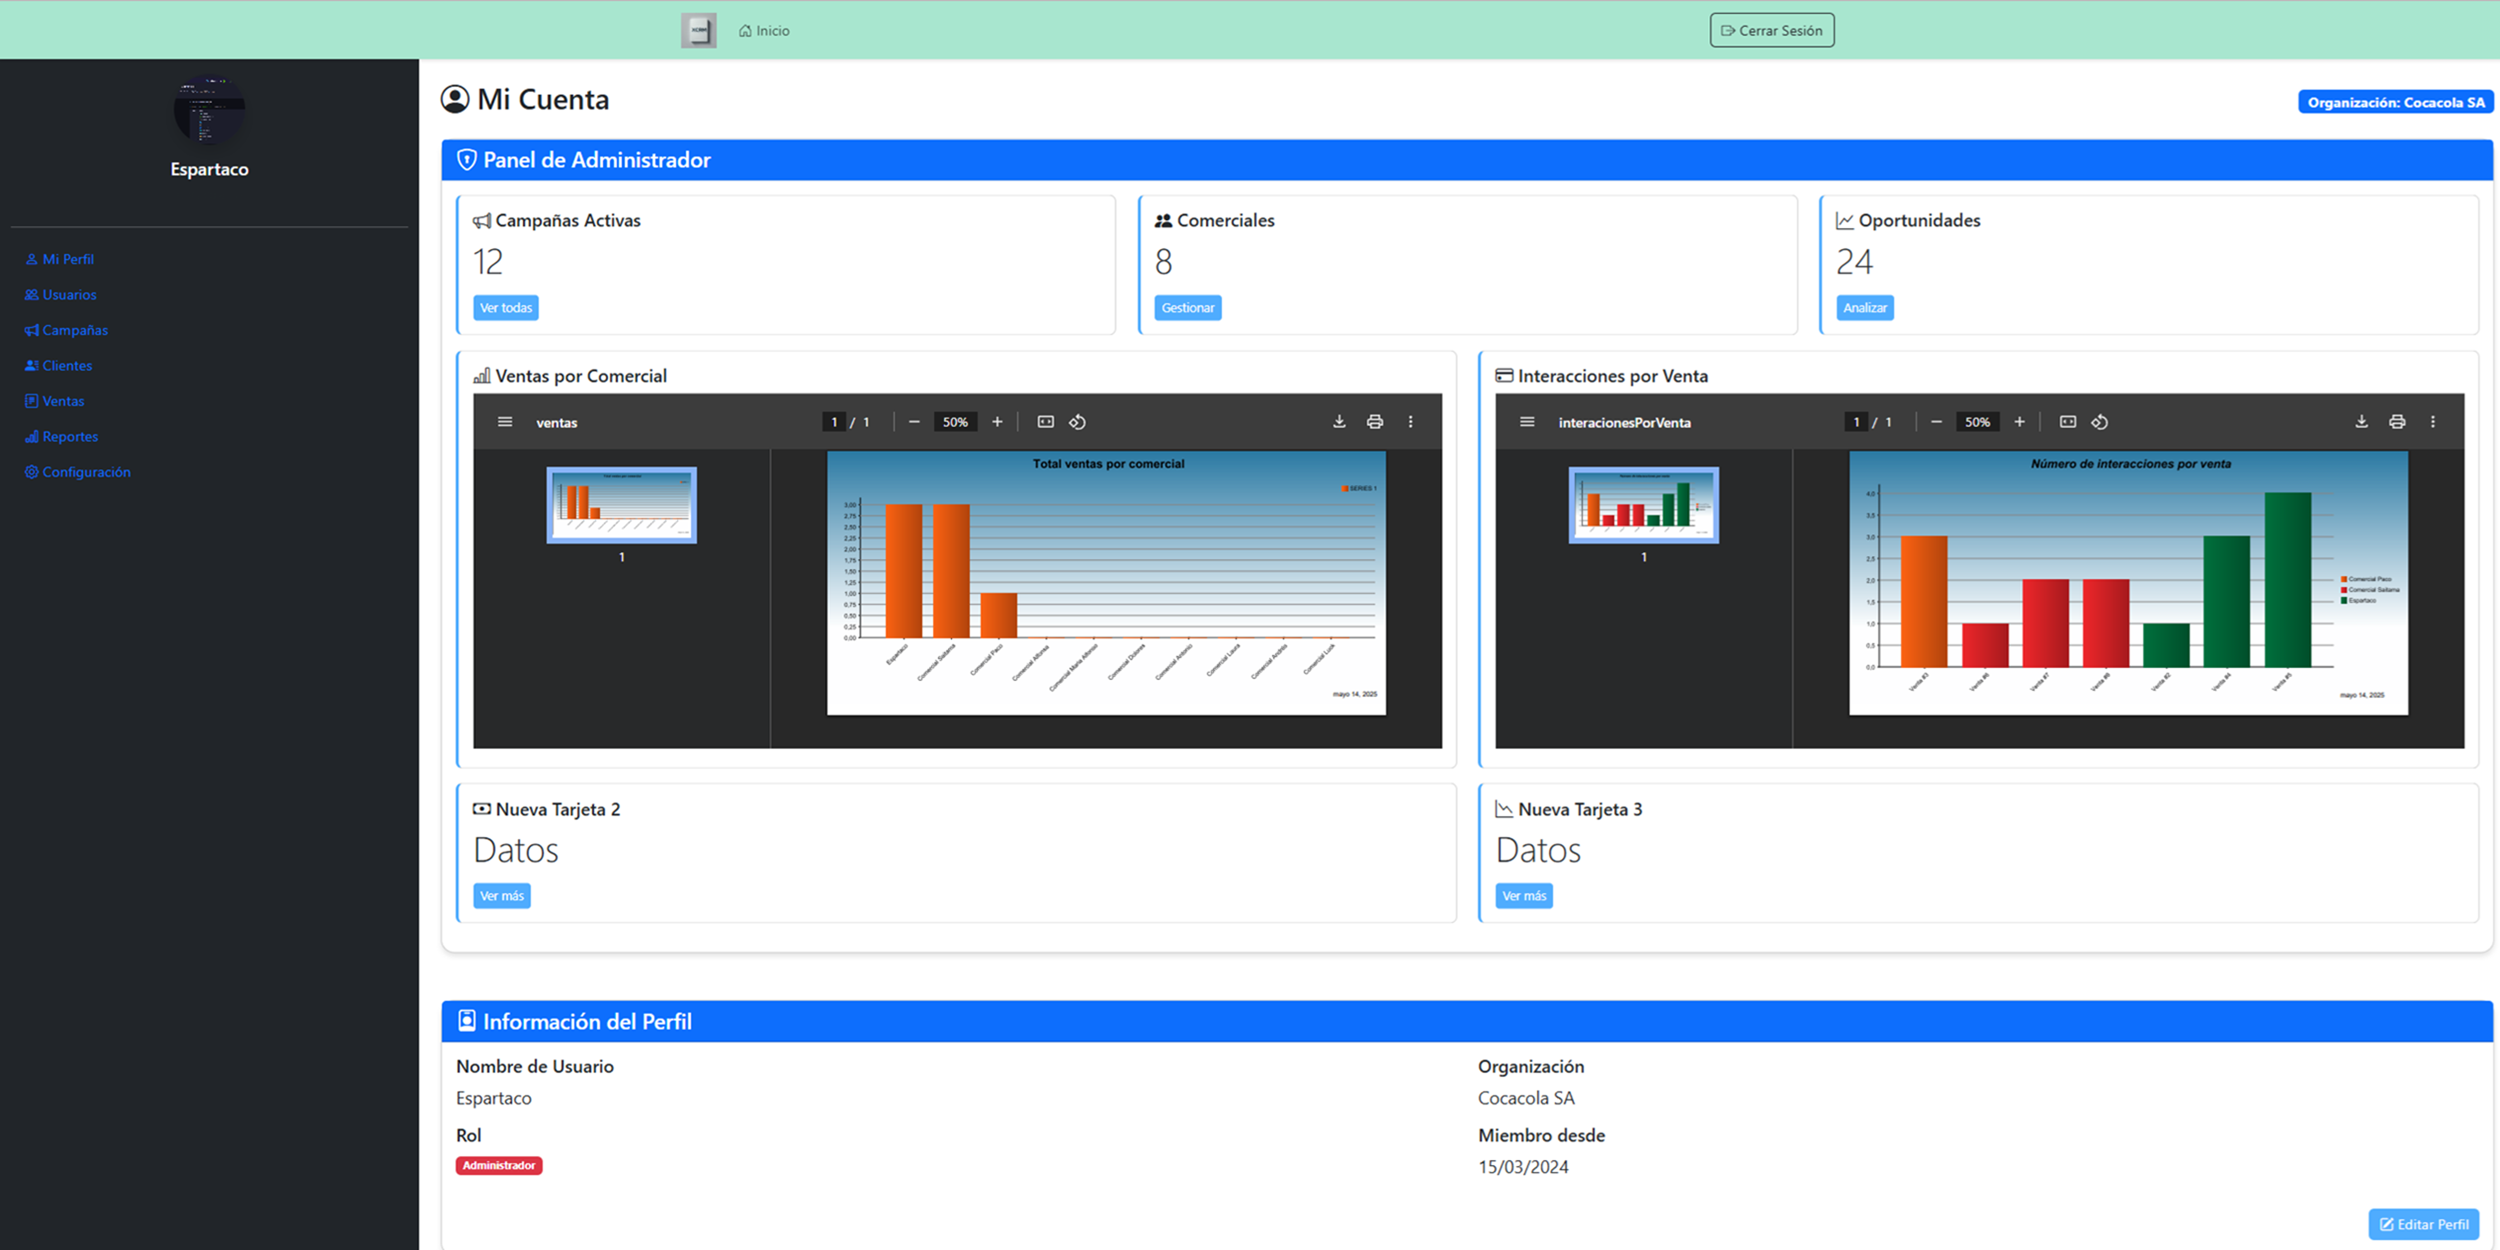
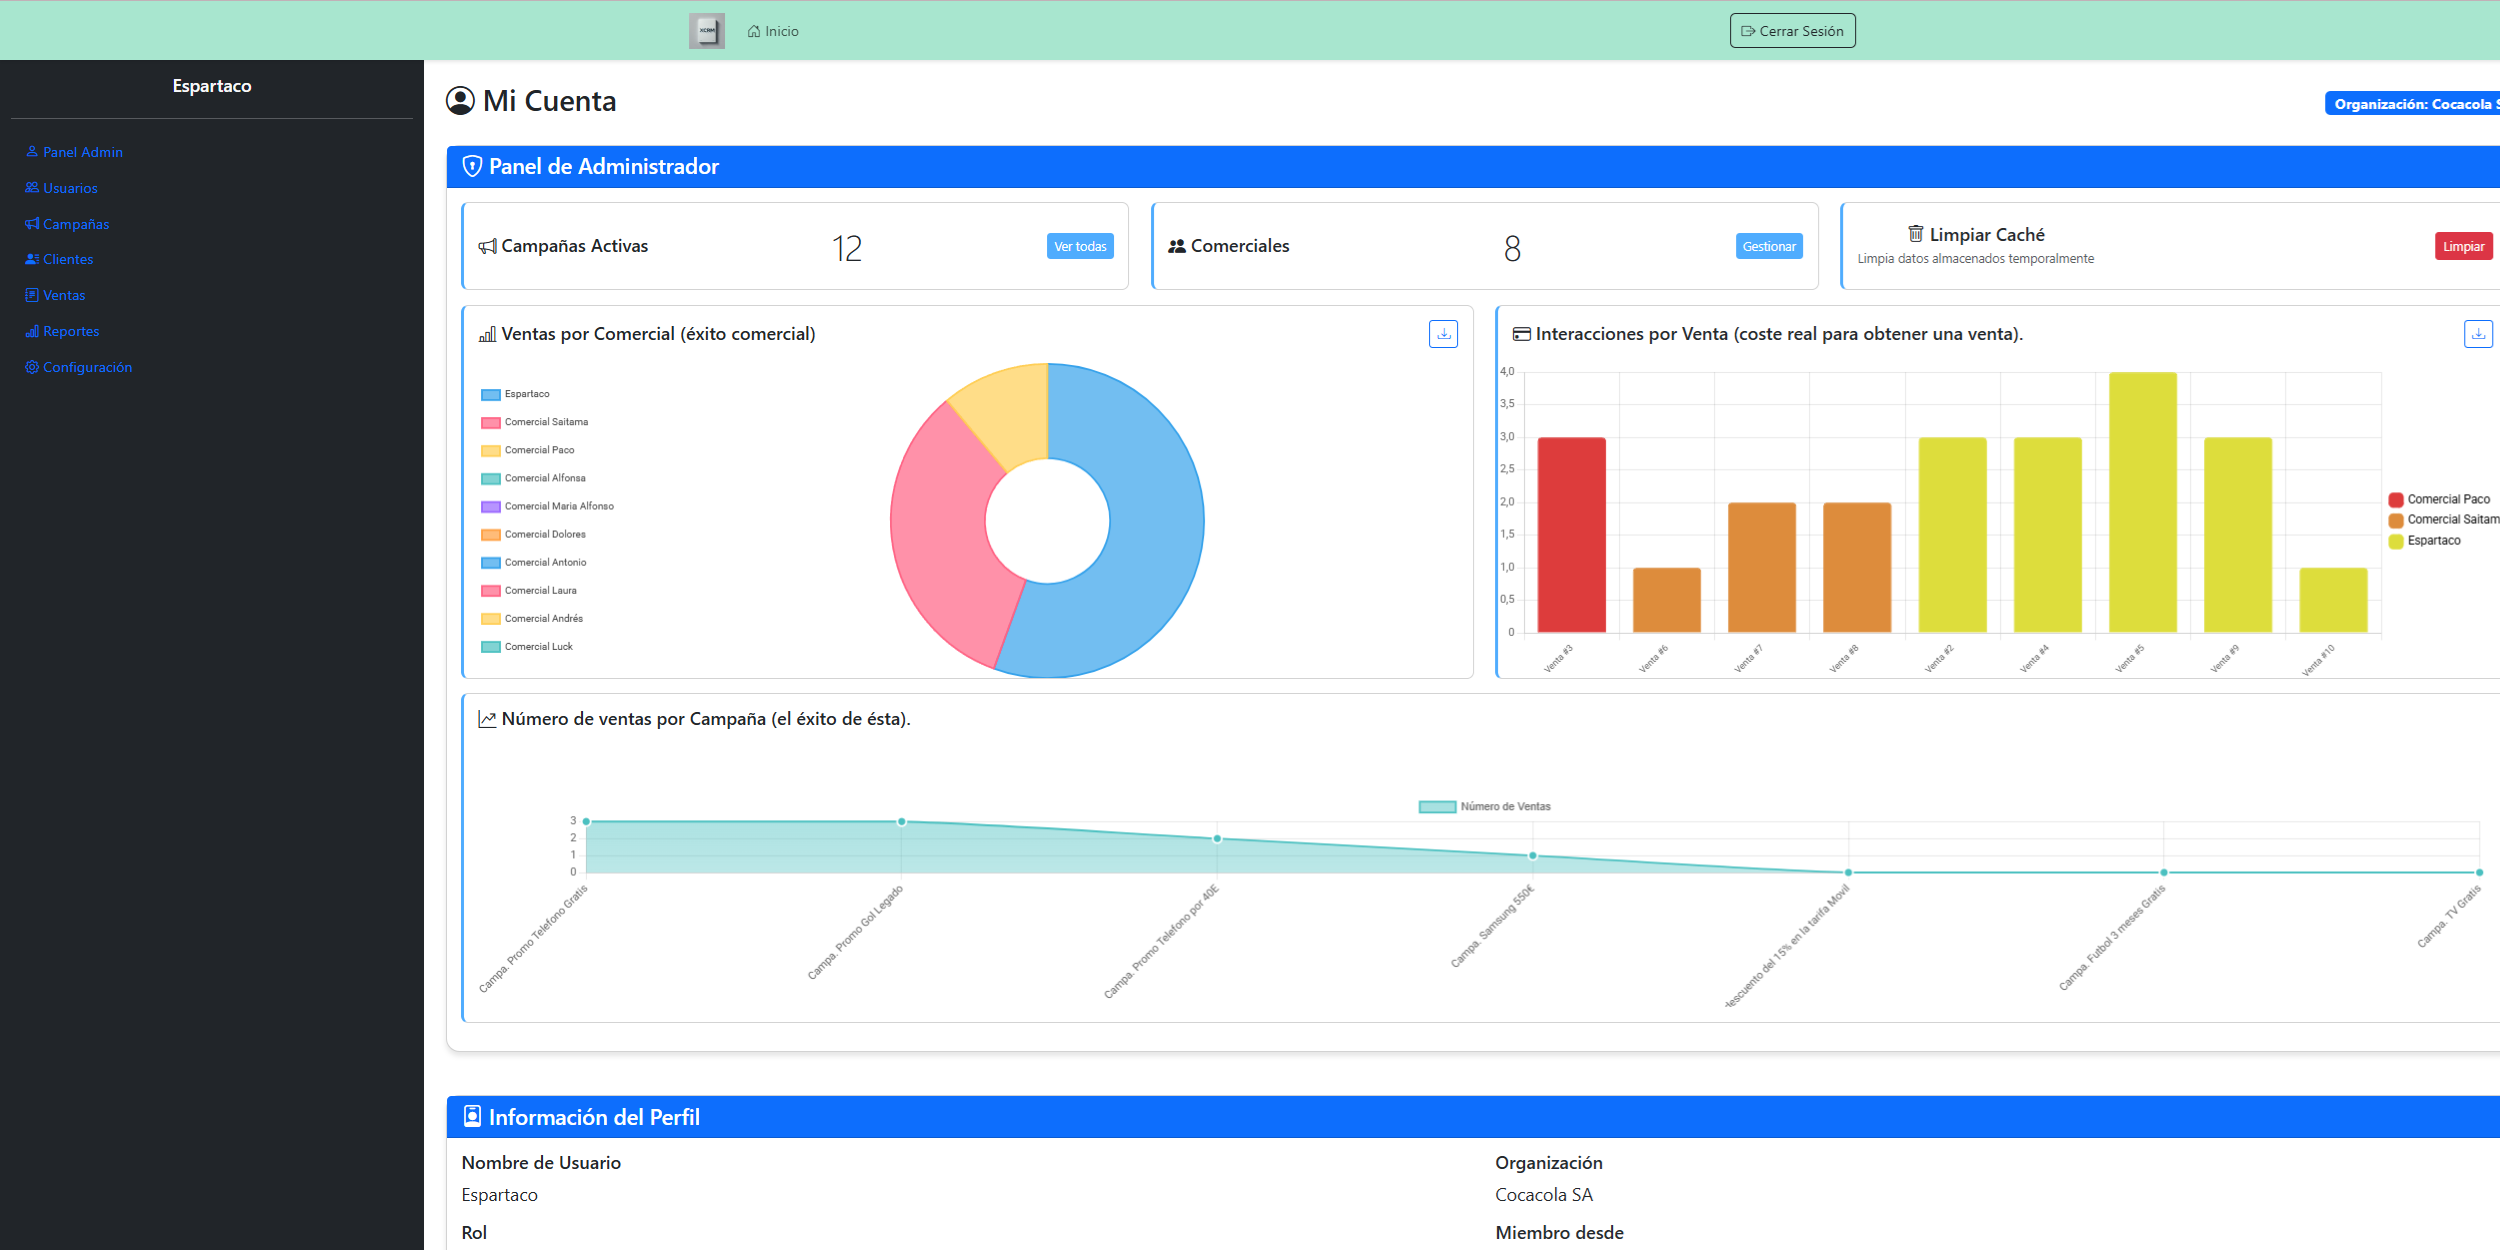
Agrego a configuracion el backup de la base de datos de la organizacion, unifico estilos y barra superior

diff --git a/src/main/resources/templates/configuracion.html b/src/main/resources/templates/configuracion.html
@@ -11,55 +11,12 @@
     <link href="https://cdn.jsdelivr.net/npm/bootstrap@5.3.0/dist/css/bootstrap.min.css" rel="stylesheet">
     <!-- Bootstrap Icons -->
     <link rel="stylesheet" href="https://cdn.jsdelivr.net/npm/bootstrap-icons@1.11.1/font/bootstrap-icons.css">
-
-    <style>
-        .navbar-custom {
-            background-color: #a8e6cf;
-            box-shadow: 0 2px 4px rgba(0,0,0,0.1);
-        }
-
-        .profile-card {
-            border-radius: 15px;
-            box-shadow: 0 4px 6px rgba(0,0,0,0.1);
-        }
-
-        .btn-custom {
-            background-color: #4facfe;
-            border: none;
-            color: white;
-        }
-
-        .btn-custom:hover {
-            background-color: #3a8acf;
-        }
-    </style>
+    <!-- Estilos personalizados -->
+    <link rel="stylesheet" th:href="@{/css/styles.css}" />
 </head>
-<body>
+<body class="fade-in">
 
-<nav class="navbar navbar-expand-lg navbar-custom sticky-top">
-    <div class="container">
-        <a class="navbar-brand" th:href="@{/}">
-            <img th:src="@{/images/logo3.png}" alt="Logo XCRM" height="40">
-        </a>
-        <button class="navbar-toggler" type="button" data-bs-toggle="collapse" data-bs-target="#navbarNav">
-            <span class="navbar-toggler-icon"></span>
-        </button>
-        <div class="collapse navbar-collapse" id="navbarNav">
-            <ul class="navbar-nav me-auto">
-                <li class="nav-item">
-                    <a class="nav-link" th:href="@{/}"><i class="bi bi-house-door"></i> Inicio</a>
-                </li>
-            </ul>
-            <div class="d-flex">
-                <form th:action="@{/logout}" method="post">
-                    <button class="btn btn-outline-dark" type="submit">
-                        <i class="bi bi-box-arrow-right"></i> Cerrar Sesión
-                    </button>
-                </form>
-            </div>
-        </div>
-    </div>
-</nav>
+<div th:replace="~{fragments/navbar-authenticated :: navbar-auth}"></div>
 
 <div class="container-fluid">
     <div class="row">
@@ -205,6 +162,23 @@
                         <span class="badge bg-secondary" th:if="${usuario.organizacion?.plan == 'Gratuito'}">Gratuito</span>
                         <span class="badge bg-info text-dark" th:if="${usuario.organizacion?.plan == 'Standard'}">Standart</span>
                         <span class="badge bg-warning text-dark" th:if="${usuario.organizacion?.plan == 'Premium'}">Premium</span>
+                    </div>
+                </div>
+            </div>
+
+            <!-- Exportar Base de Datos -->
+            <div sec:authorize="hasRole('ROLE_ADMIN')">
+                <div class="card mt-4">
+                    <div class="card-header bg-danger text-white">
+                        <h4 class="mb-0"><i class="bi bi-download"></i> Respaldo de la Base de Datos Central</h4>
+                    </div>
+                    <div class="card-body">
+                        <p>Haz clic en el botón para descargar un respaldo completo de la base de datos central. Esta acción solo está disponible para administradores.</p>
+                        <form th:action="@{/api/config/export-db}" method="get">
+                            <button type="submit" class="btn btn-danger">
+                                <i class="bi bi-hdd"></i> Descargar Respaldo
+                            </button>
+                        </form>
                     </div>
                 </div>
             </div>

diff --git a/src/main/resources/templates/edit-mi-perfil.html b/src/main/resources/templates/edit-mi-perfil.html
@@ -6,37 +6,12 @@
   <title>Editar Perfil - XCRM</title>
   <link href="https://cdn.jsdelivr.net/npm/bootstrap@5.3.0/dist/css/bootstrap.min.css" rel="stylesheet">
   <link rel="stylesheet" href="https://cdn.jsdelivr.net/npm/bootstrap-icons@1.11.1/font/bootstrap-icons.css">
-  <style>
-    .navbar-custom { background-color: #a8e6cf; box-shadow: 0 2px 4px rgba(0,0,0,0.1); }
-    .profile-form { background-color: #f8f9fa; border-radius: 10px; padding: 20px; box-shadow: 0 2px 4px rgba(0,0,0,0.05); }
-  </style>
+  <!-- Estilos personalizados -->
+  <link rel="stylesheet" th:href="@{/css/styles.css}" />
 </head>
-<body>
+<body class="fade-in">
 
-<nav class="navbar navbar-expand-lg navbar-custom sticky-top">
-  <div class="container">
-    <a class="navbar-brand" th:href="@{/}">
-      <img th:src="@{/images/logo3.png}" alt="Logo XCRM" height="40">
-    </a>
-    <button class="navbar-toggler" type="button" data-bs-toggle="collapse" data-bs-target="#navbarNav">
-      <span class="navbar-toggler-icon"></span>
-    </button>
-    <div class="collapse navbar-collapse" id="navbarNav">
-      <ul class="navbar-nav me-auto">
-        <li class="nav-item">
-          <a class="nav-link" th:href="@{/}"><i class="bi bi-house-door"></i> Inicio</a>
-        </li>
-      </ul>
-      <div class="d-flex">
-        <form th:action="@{/logout}" method="post">
-          <button class="btn btn-outline-dark" type="submit">
-            <i class="bi bi-box-arrow-right"></i> Cerrar Sesión
-          </button>
-        </form>
-      </div>
-    </div>
-  </div>
-</nav>
+<div th:replace="~{fragments/navbar-authenticated :: navbar-auth}"></div>
 
 <div class="container-fluid">
   <div class="row">
@@ -195,6 +170,9 @@
     </main>
   </div>
 </div>
+
+<div th:replace="~{fragments/footer_admin :: footer_admin}"></div>
+
 <!--Mostrar vista previa-->
 <script>
   function mostrarVistaPrevia(event) {

diff --git a/src/main/resources/static/css/styles.css b/src/main/resources/static/css/styles.css
@@ -152,6 +152,8 @@
             border-color: #4facfe;
         }
 
+        .profile-form { background-color: #f8f9fa; border-radius: 10px; padding: 20px; box-shadow: 0 2px 4px rgba(0,0,0,0.05); }
+
         /* Animación de desvanecimiento al cargar la página */
         .fade-in {
             animation: fadeInAnimation 0.8s ease-in-out;

diff --git a/src/main/java/com/xcrm/service/DatabaseBackupService.java b/src/main/java/com/xcrm/service/DatabaseBackupService.java
@@ -1,0 +1,75 @@
+package com.xcrm.service;
+
+import jakarta.persistence.EntityManager;
+import lombok.extern.log4j.Log4j2;
+import org.hibernate.Session;
+import org.springframework.beans.factory.annotation.Value;
+import org.springframework.stereotype.Service;
+
+import java.io.File;
+import java.io.IOException;
+import java.sql.Connection;
+
+@Log4j2
+@Service
+public class DatabaseBackupService {
+
+    private final EntityManager entityManager;
+
+    @Value("${spring.datasource.username}")
+    private String dbUser;
+
+    @Value("${spring.datasource.password}")
+    private String dbPassword;
+
+    @Value("${mysqldump.path}")
+    private String mysqldumpPath;
+
+    public DatabaseBackupService(EntityManager entityManager) {
+        this.entityManager = entityManager;
+    }
+
+    public File createBackup() throws IOException, InterruptedException {
+        String dbUrl = getDatabaseUrlFromEntityManager();
+        String dbName = extractDbName(dbUrl);
+        String fileName = "backup_" + dbName + "_" + System.currentTimeMillis() + ".sql";
+        File backupFile = new File(System.getProperty("java.io.tmpdir"), fileName);
+
+        log.info("Creando respaldo para DB: " + dbName + " con mysqldump en ruta: " + mysqldumpPath);
+
+        ProcessBuilder pb = new ProcessBuilder(
+                mysqldumpPath,
+                "-u" + dbUser,
+                "-p" + dbPassword,
+                dbName,
+                "-r",
+                backupFile.getAbsolutePath()
+        );
+
+        Process process = pb.start();
+        int exitCode = process.waitFor();
+
+        if (exitCode != 0 || !backupFile.exists()) {
+            log.error("Error al crear el respaldo de la base de datos. Código de salida: " + exitCode);
+            throw new RuntimeException("Error al crear el respaldo de la base de datos.");
+        }
+
+        log.info("Respaldo creado exitosamente: " + backupFile.getAbsolutePath());
+        return backupFile;
+    }
+
+    private String getDatabaseUrlFromEntityManager() {
+        try {
+            Session session = entityManager.unwrap(Session.class);
+            Connection connection = session.doReturningWork(conn -> conn);
+            return connection.getMetaData().getURL();
+        } catch (Exception e) {
+            throw new RuntimeException("No se pudo obtener la URL de conexión desde EntityManager", e);
+        }
+    }
+
+    private String extractDbName(String jdbcUrl) {
+        String urlSinParametros = jdbcUrl.split("\\?")[0];
+        return urlSinParametros.substring(urlSinParametros.lastIndexOf("/") + 1);
+    }
+}

diff --git a/src/main/java/com/xcrm/controller/rest/BackupController.java b/src/main/java/com/xcrm/controller/rest/BackupController.java
@@ -1,0 +1,42 @@
+package com.xcrm.controller.rest;
+
+import com.xcrm.service.DatabaseBackupService;
+import org.springframework.core.io.InputStreamResource;
+import org.springframework.core.io.Resource;
+import org.springframework.http.HttpHeaders;
+import org.springframework.http.HttpStatus;
+import org.springframework.http.MediaType;
+import org.springframework.http.ResponseEntity;
+import org.springframework.web.bind.annotation.GetMapping;
+import org.springframework.web.bind.annotation.RequestMapping;
+import org.springframework.web.bind.annotation.RestController;
+
+import java.io.File;
+import java.io.FileInputStream;
+
+@RestController
+@RequestMapping("/api/config")
+public class BackupController {
+    private final DatabaseBackupService backupService;
+
+    public BackupController(DatabaseBackupService backupService) {
+        this.backupService = backupService;
+    }
+
+    @GetMapping("/export-db")
+    public ResponseEntity<Resource> exportDatabase() {
+        try {
+            File backupFile = backupService.createBackup();
+            InputStreamResource resource = new InputStreamResource(new FileInputStream(backupFile));
+
+            return ResponseEntity.ok()
+                    .header(HttpHeaders.CONTENT_DISPOSITION, "attachment; filename=" + backupFile.getName())
+                    .contentType(MediaType.APPLICATION_OCTET_STREAM)
+                    .body(resource);
+
+        } catch (Exception e) {
+            e.printStackTrace();
+            return ResponseEntity.status(HttpStatus.INTERNAL_SERVER_ERROR).build();
+        }
+    }
+}

diff --git a/src/main/java/com/xcrm/configuration/SecurityConfig.java b/src/main/java/com/xcrm/configuration/SecurityConfig.java
@@ -40,6 +40,7 @@ public class SecurityConfig {
                                 "/images/**")
                         .permitAll()
                         .requestMatchers("/api/cache/clear").hasRole("ADMIN")
+                        .requestMatchers("/api/config/**").hasRole("ADMIN")
                         .anyRequest().authenticated()
                 )
                 .formLogin(form -> form

diff --git a/src/main/java/com/xcrm/service/CampaignServiceImpl.java b/src/main/java/com/xcrm/service/CampaignServiceImpl.java
@@ -3,8 +3,6 @@ package com.xcrm.service;
 import com.xcrm.model.Campaign;
 import com.xcrm.model.Client;
 import com.xcrm.repository.CampaignRepository;
-import lombok.AllArgsConstructor;
-
 import org.springframework.beans.factory.annotation.Autowired;
 import org.springframework.context.annotation.Lazy;
 import org.springframework.stereotype.Service;
